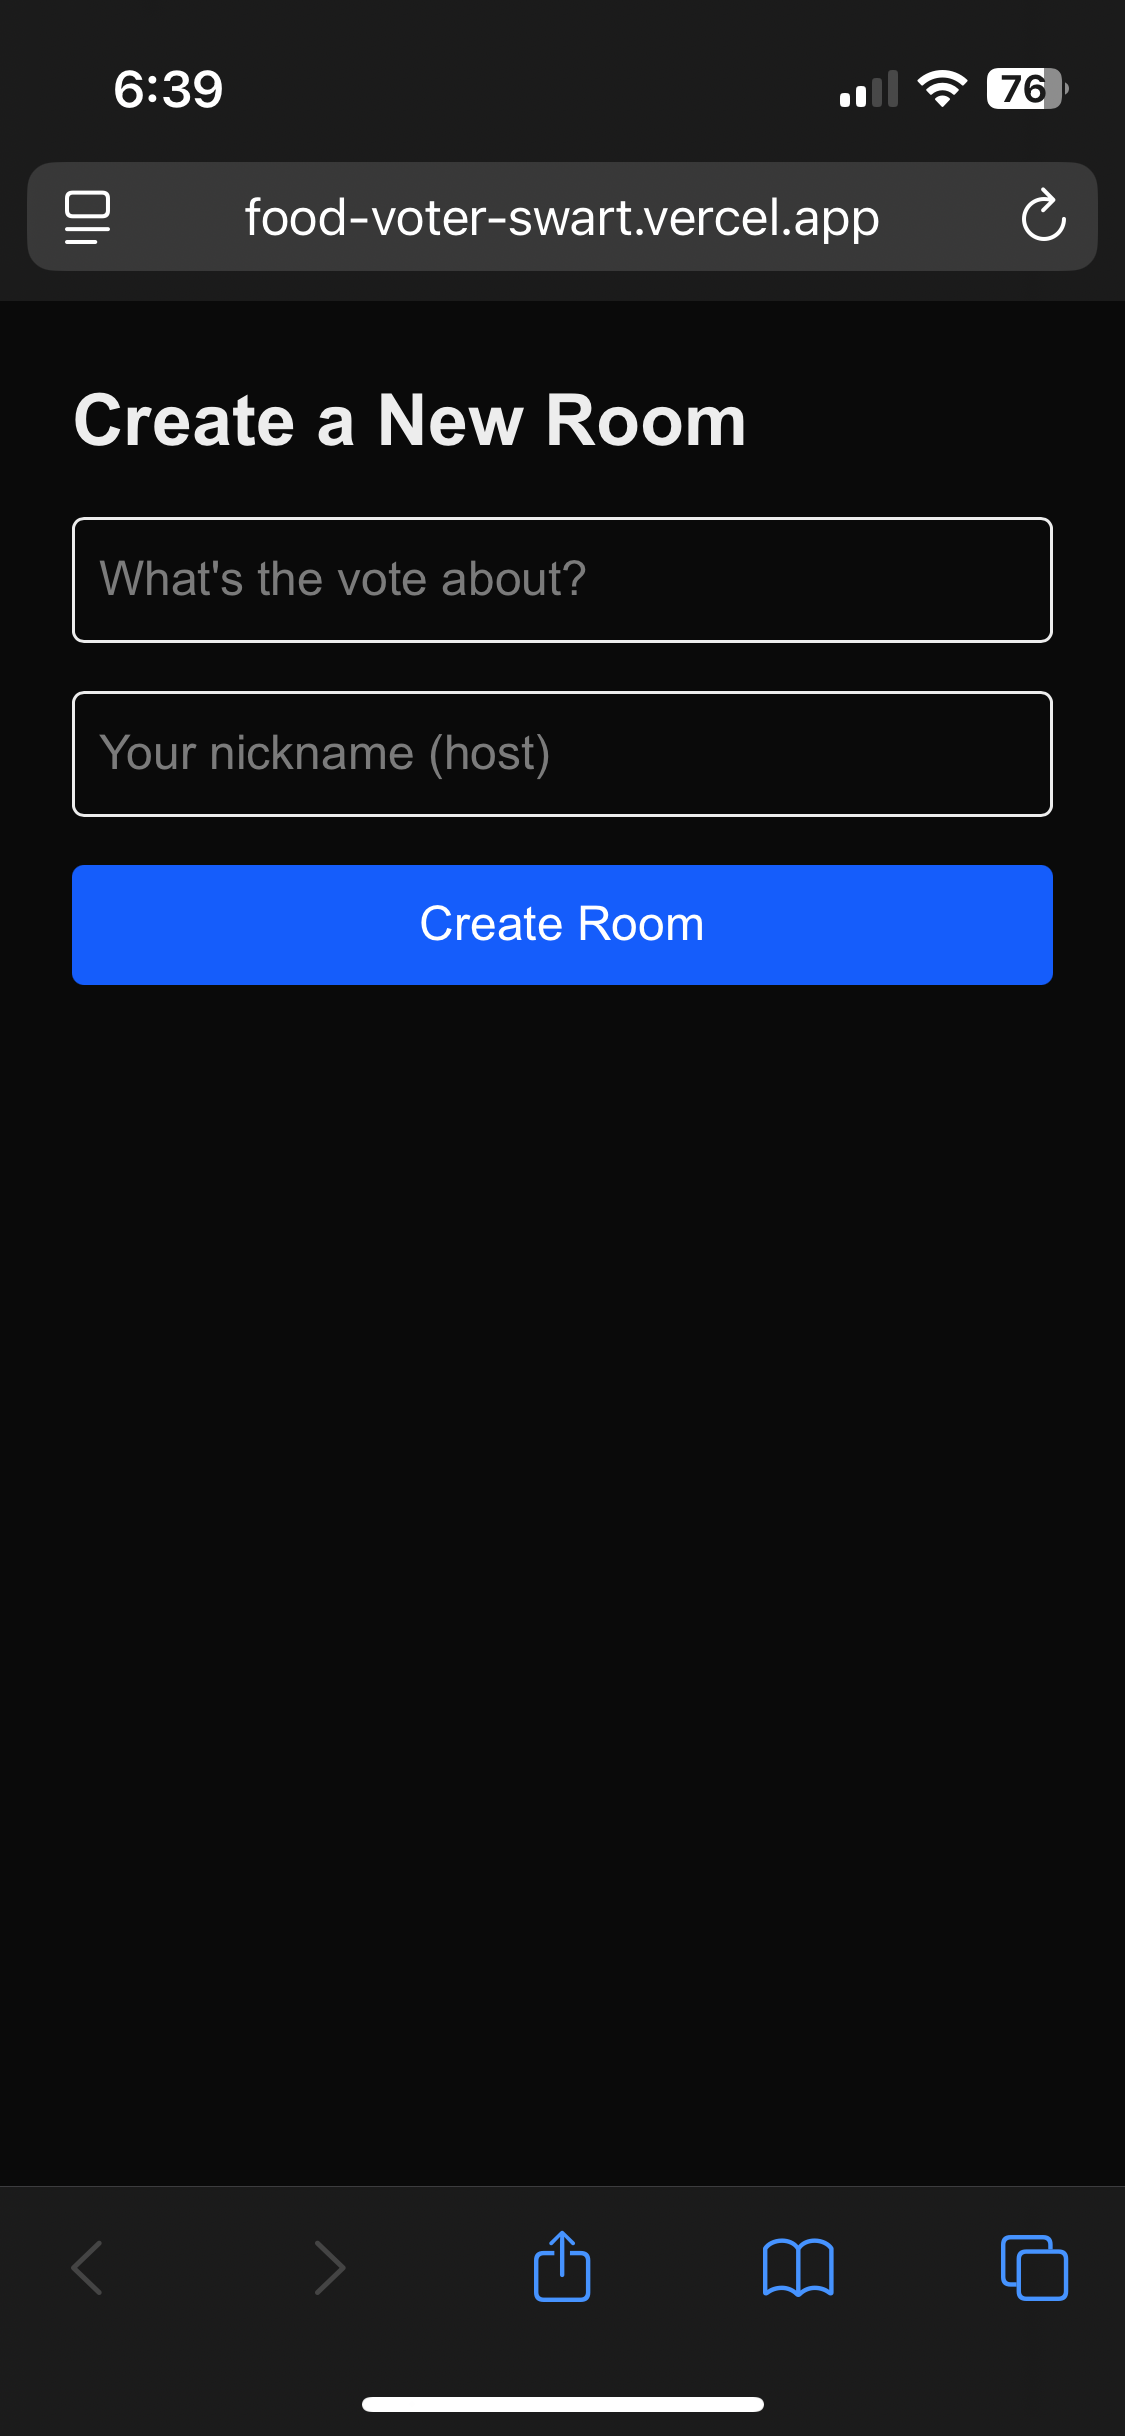
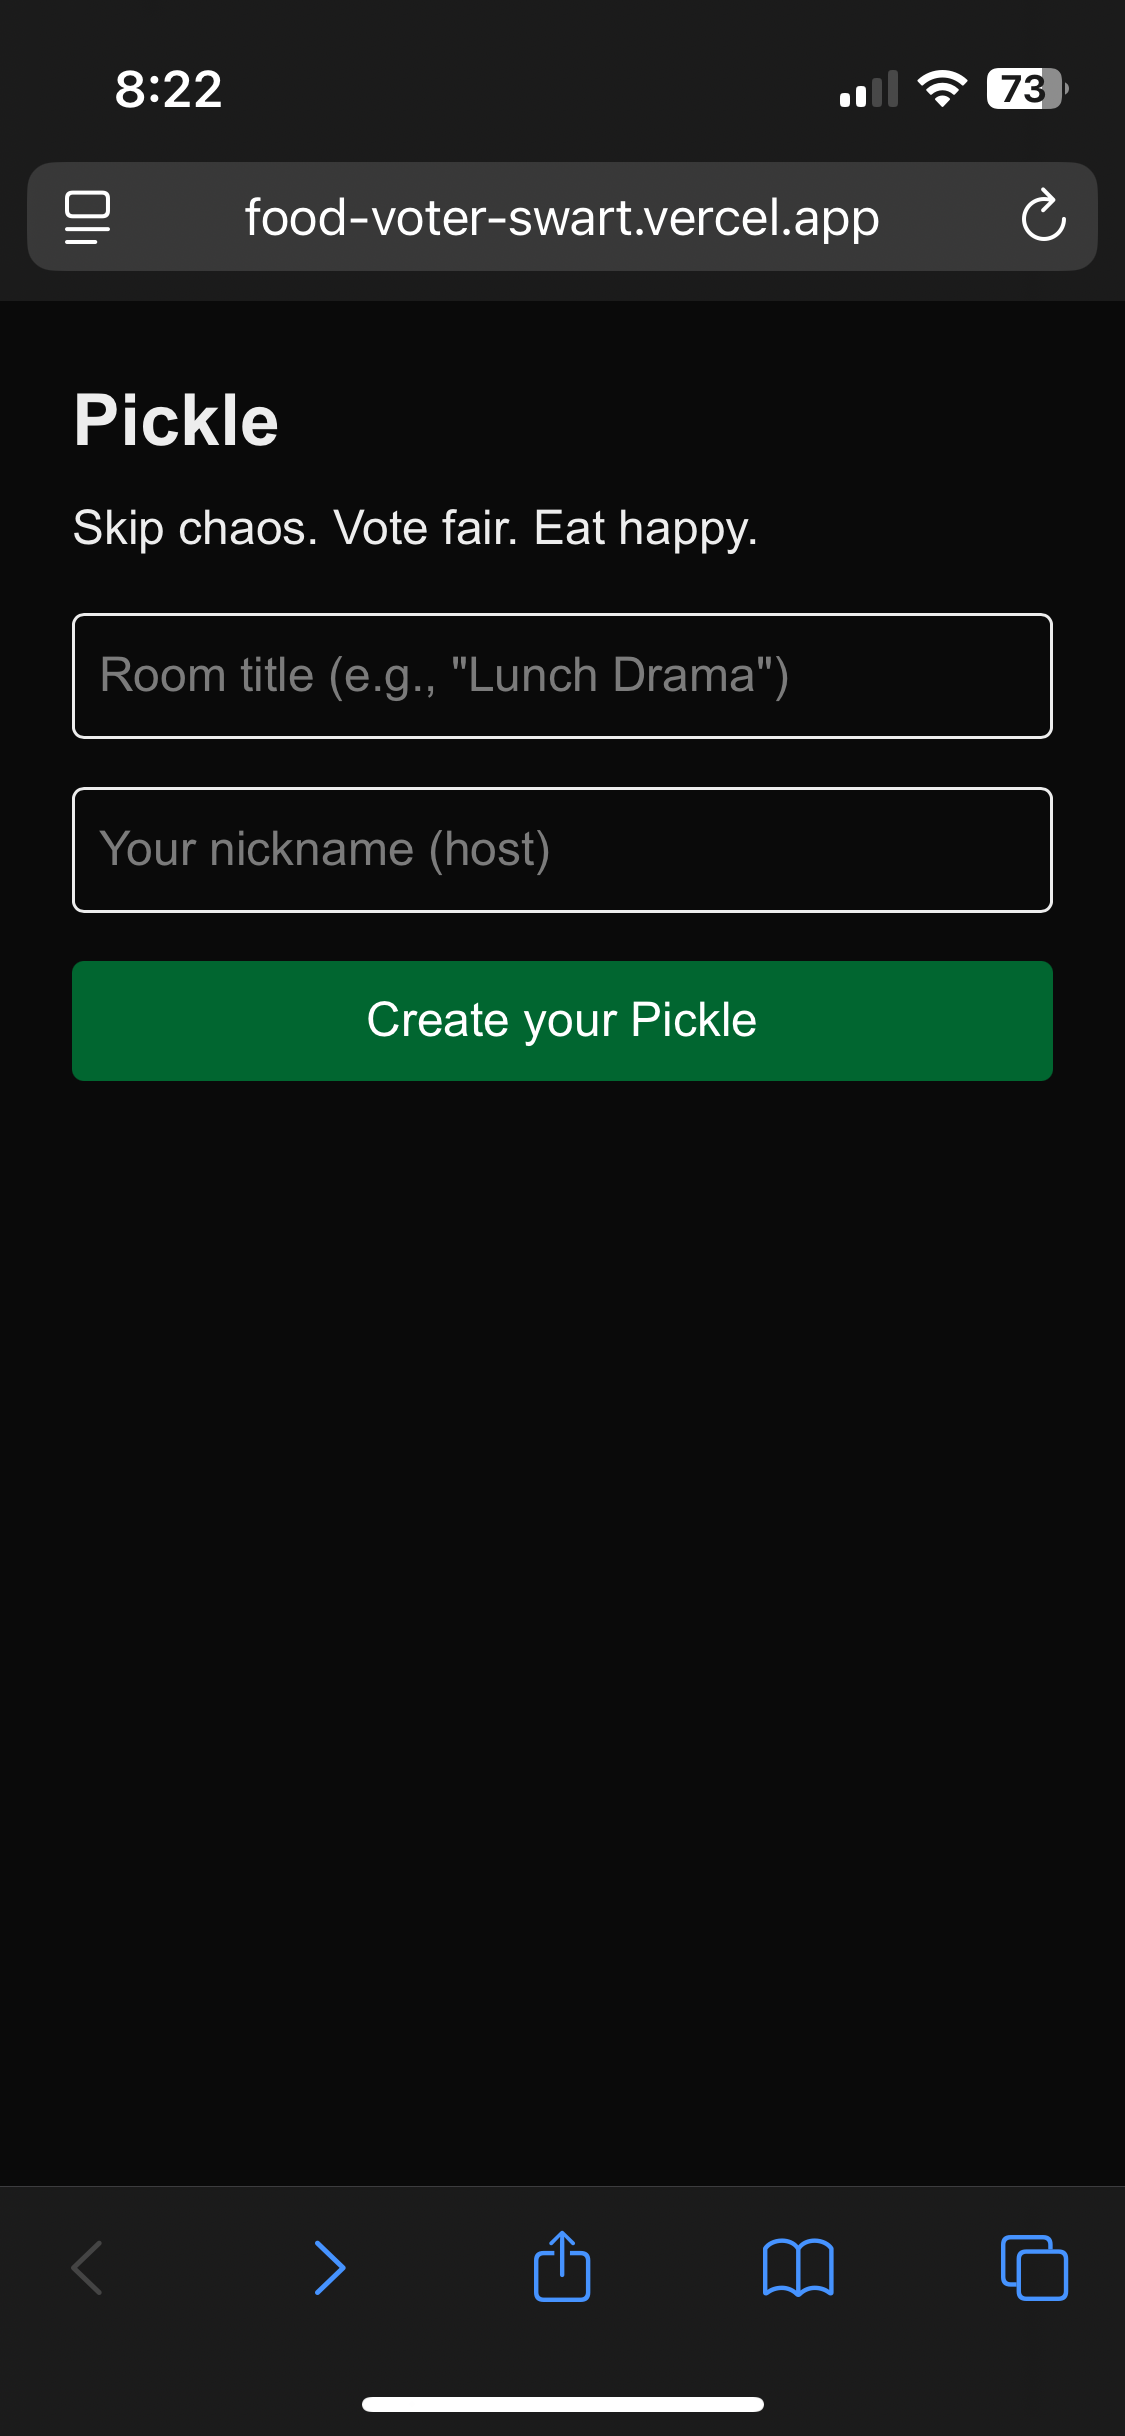
updated readme

Changed region(s): [[0.0622, 0.156, 0.9333, 0.468], [0.1244, 0.0312, 0.1867, 0.0624], [0.28, 0.9048, 0.3111, 0.936]]

diff --git a/README.md b/README.md
@@ -1,4 +1,4 @@
-# Food Voter App
+# Pickle: Food Voter App
 
 A fun, collaborative decision-making app to help groups choose what to eat---without the endless back-and-forth.
 
